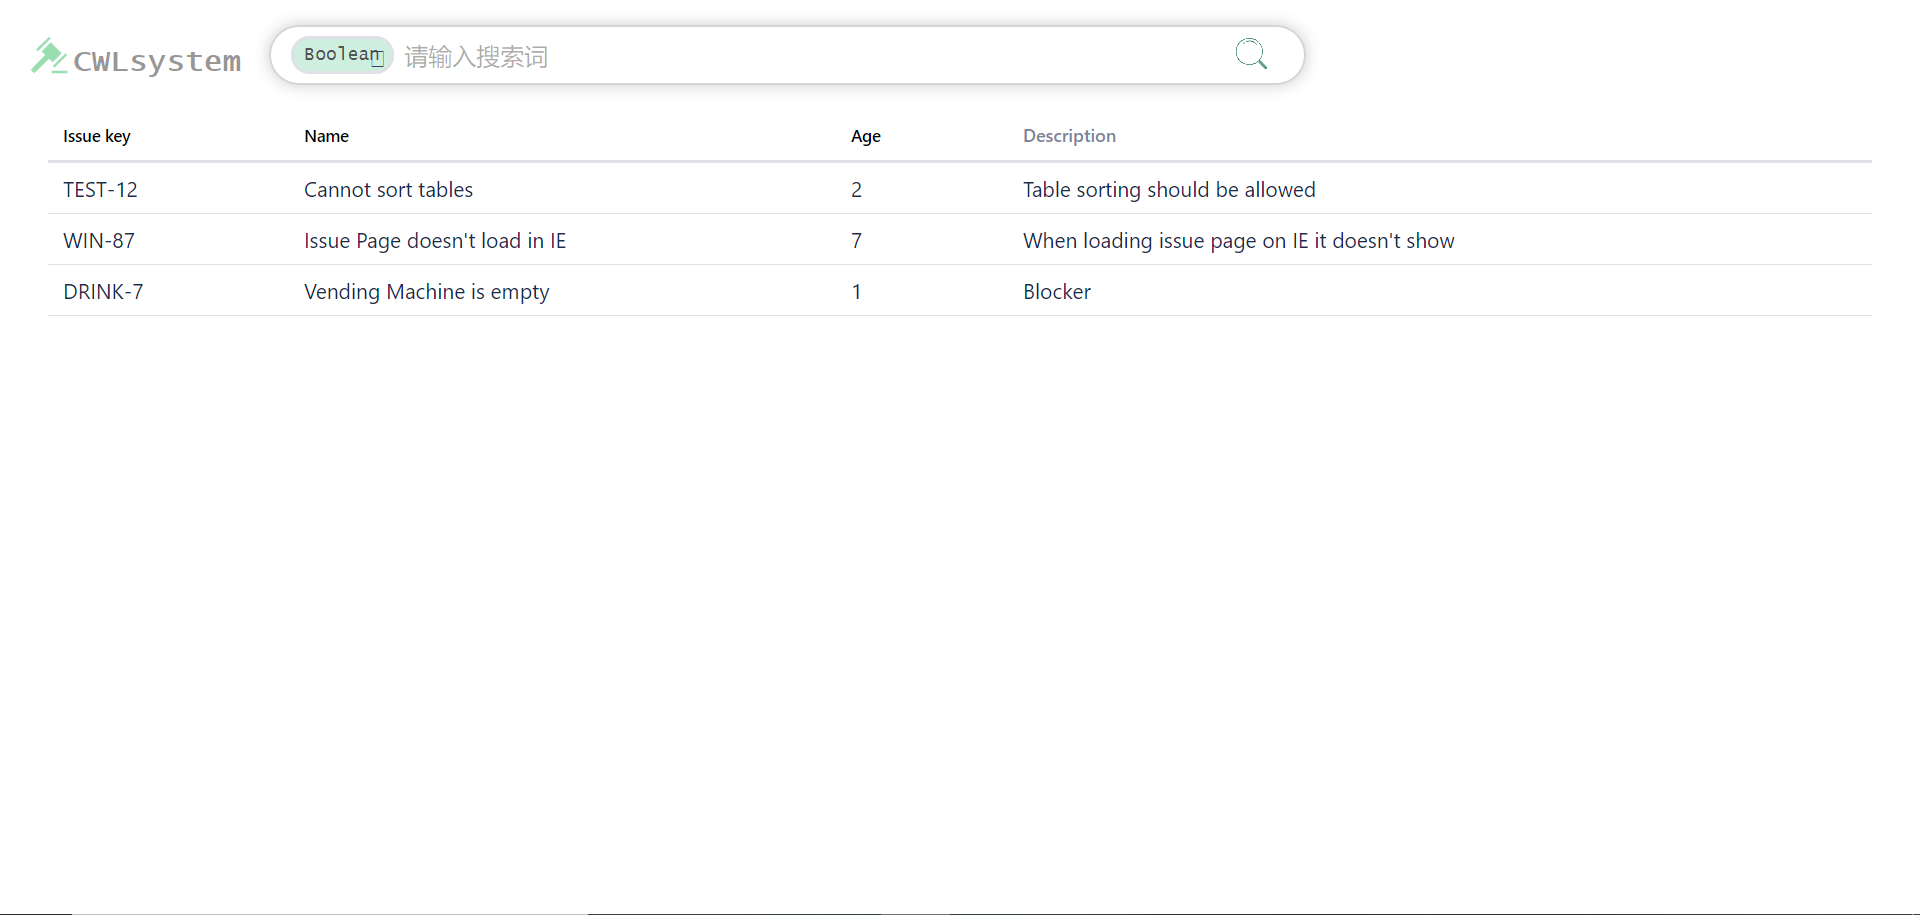
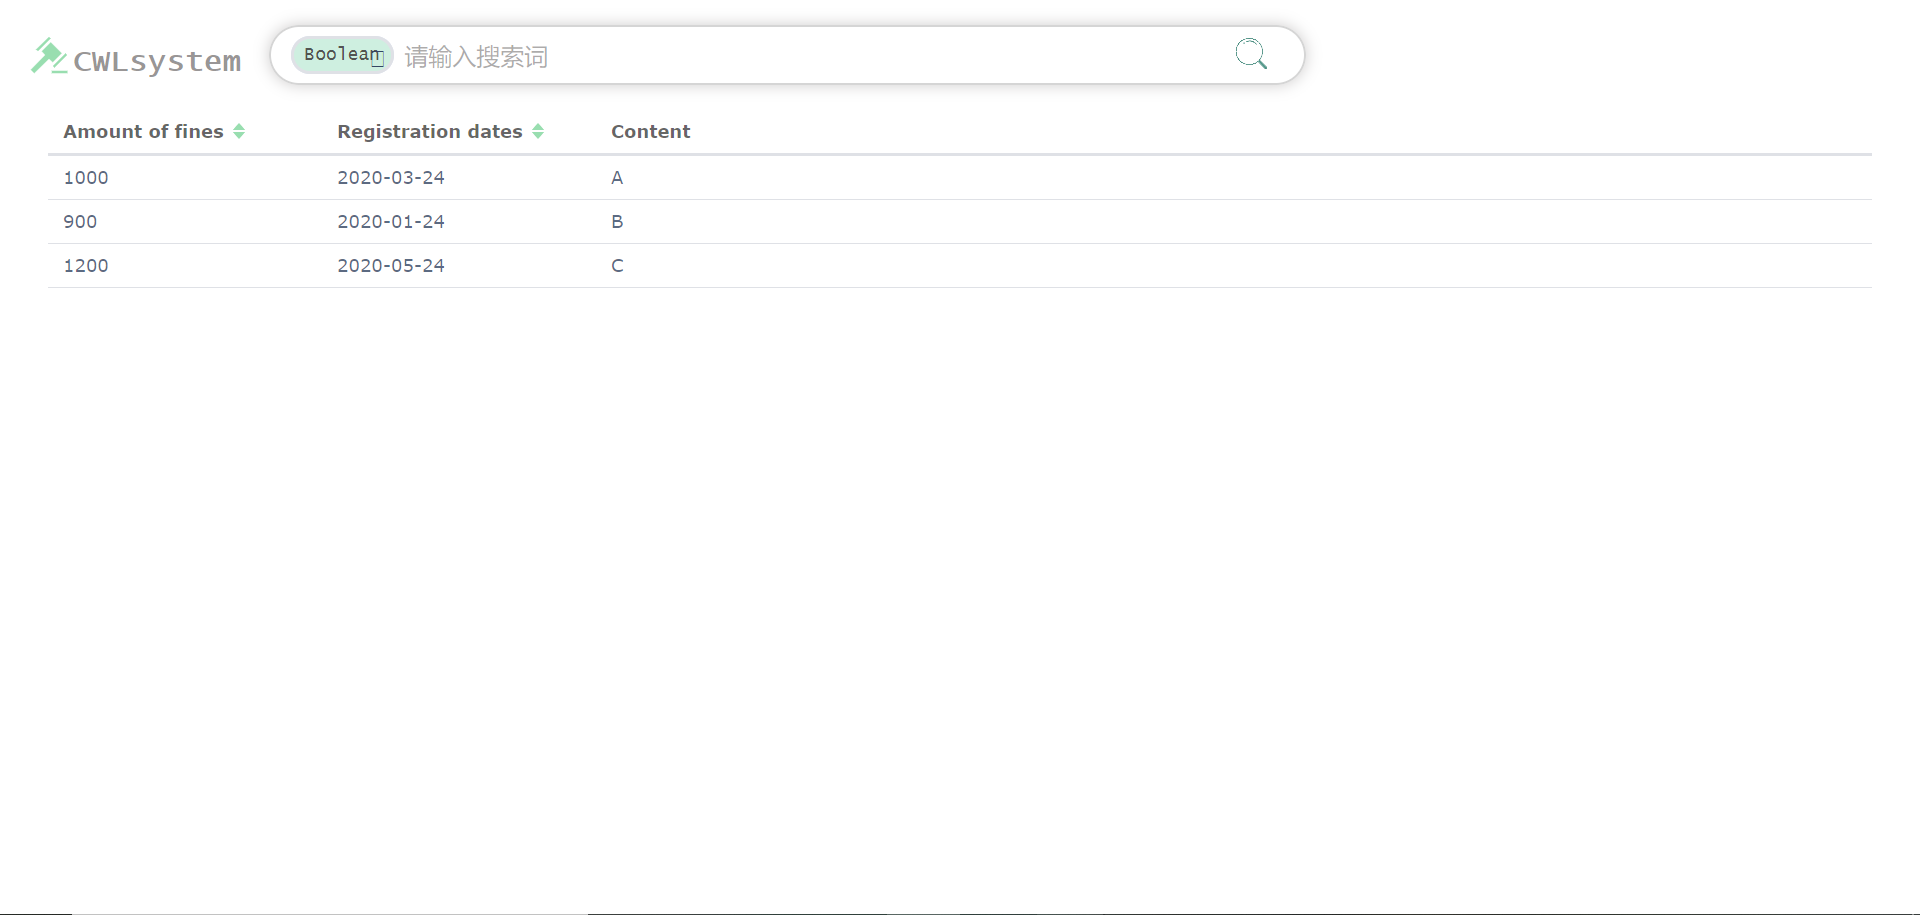
change

Changed region(s): [[0.0312, 0.1224, 0.9688, 0.3366], [0.5312, 0.306, 0.5625, 0.3366], [0.3125, 0.2142, 0.3438, 0.2448]]

diff --git a/readme.md b/readme.md
@@ -92,5 +92,5 @@
 ```
 3. chrome中打开127.0.0.1:8661看到如下页面
 ![index](client/image/index.jpg)
-4. 输入查询之后跳转到结果页面（未完成）
+4. 输入查询之后跳转到结果页面, 点击表头进行数据排序
 ![index](client/image/result.jpg)
